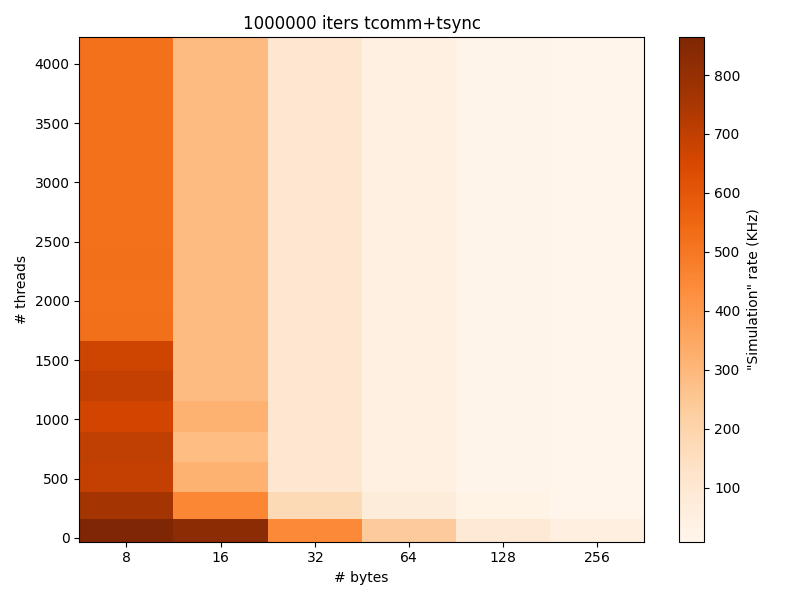
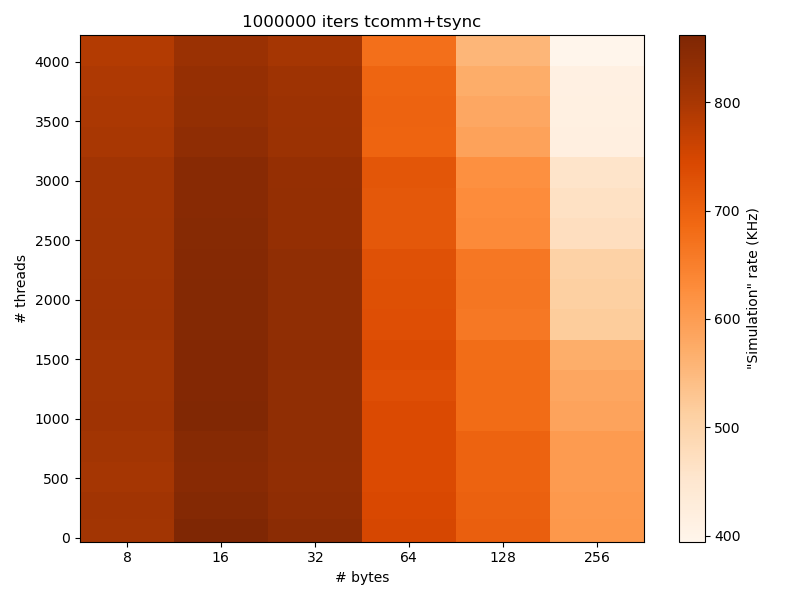
improved access pattern of tcomm benchmark

diff --git a/tCommTest/runBenchmarks.py b/tCommTest/runBenchmarks.py
@@ -21,7 +21,7 @@ with open("datasets.txt", 'w') as f:
     f.write("\n")
 
 exit(0)'''
-datasets = [[1157.35, 1310.78, 1435.7, 1422.58, 1500.1, 1437.21, 1487.86, 1922.33, 1925.95, 1923.64, 1926.9, 1926.23, 1929.19, 1928.4, 1931.58, 1930.44, 1934.82], [1204.6, 2202.46, 3147.7, 3516.82, 3147.39, 3498.02, 3489.15, 3494.6, 3482.78, 3488.33, 3484.4, 3489.39, 3486.67, 3491.27, 3481.27, 3487.91, 3472.49], [2238.48, 5736.74, 9515.68, 9112.21, 9195.03, 9142.54, 9158.55, 9142.2, 9159.31, 9163.67, 9167.29, 9167.55, 9172.5, 9174.81, 9181.14, 9181.26, 9184.31], [4229.07, 13538.6, 22578.2, 23111.7, 23023.9, 23042.5, 23030.9, 23058.6, 23038.6, 23066.6, 23043.3, 23045.0, 23110.6, 23160.3, 23176.9, 23213.0, 23161.1], [10726.4, 39352.5, 62429.8, 63011.6, 63145.0, 63073.6, 63001.4, 63008.9, 63015.2, 63025.2, 63028.0, 63034.6, 63044.3, 63071.1, 63493.6, 63410.8, 63554.0], [20630.4, 77639.2, 124514.0, 124507.0, 124426.0, 123991.0, 124022.0, 124018.0, 124508.0, 124514.0, 124505.0, 124535.0, 124564.0, 124622.0, 125351.0, 125353.0, 125425.0]]
+datasets = [[1236.8, 1236.46, 1243.23, 1236.86, 1229.97, 1231.97, 1234.06, 1227.66, 1230.15, 1233.0, 1231.72, 1235.99, 1235.58, 1249.89, 1254.68, 1261.23, 1270.25], [1160.65, 1171.4, 1178.75, 1177.27, 1166.26, 1169.04, 1168.21, 1171.56, 1172.24, 1174.38, 1177.85, 1180.46, 1180.23, 1194.97, 1201.57, 1206.87, 1218.47], [1186.65, 1193.85, 1199.94, 1196.13, 1197.1, 1197.59, 1195.18, 1196.77, 1196.19, 1198.7, 1205.68, 1206.3, 1207.67, 1220.44, 1223.31, 1228.14, 1244.62], [1338.63, 1343.63, 1350.91, 1350.69, 1349.68, 1365.71, 1354.55, 1365.88, 1367.02, 1370.98, 1396.69, 1396.07, 1390.03, 1438.7, 1436.86, 1442.64, 1478.19], [1421.1, 1427.75, 1437.26, 1434.14, 1464.75, 1467.17, 1469.95, 1510.18, 1504.03, 1508.27, 1581.45, 1590.56, 1604.04, 1691.22, 1720.75, 1747.78, 1800.83], [1644.48, 1647.05, 1655.12, 1659.0, 1698.07, 1715.77, 1750.54, 1932.83, 1950.1, 1973.33, 2112.54, 2142.09, 2175.84, 2396.35, 2405.87, 2418.71, 2534.32]]
 import numpy as np
 import matplotlib.pyplot as plt
 
